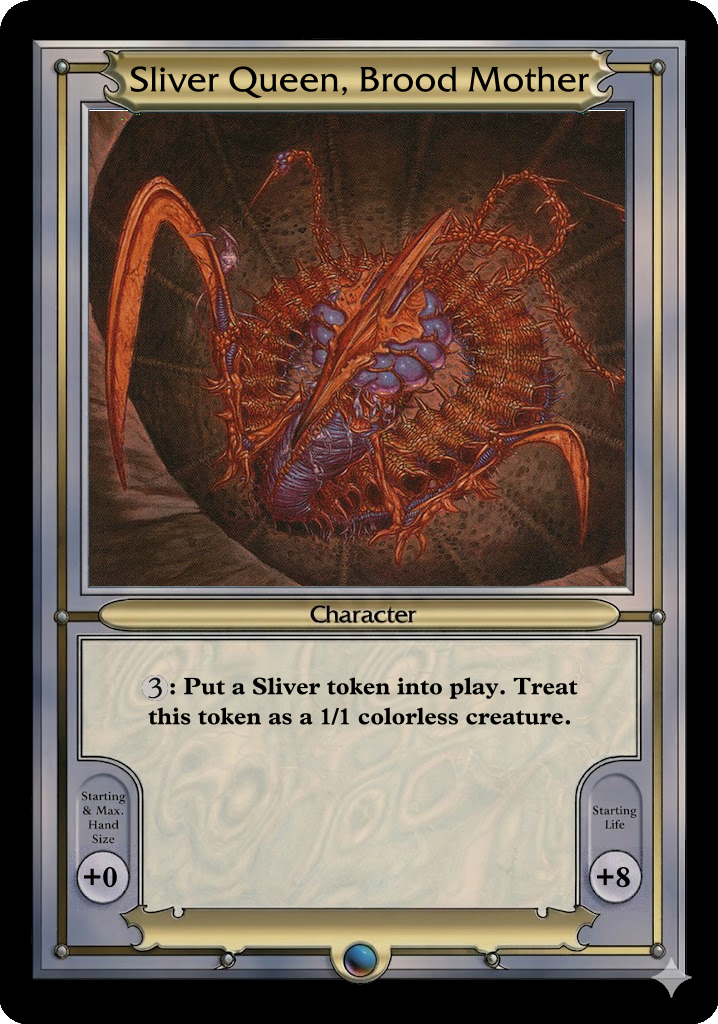
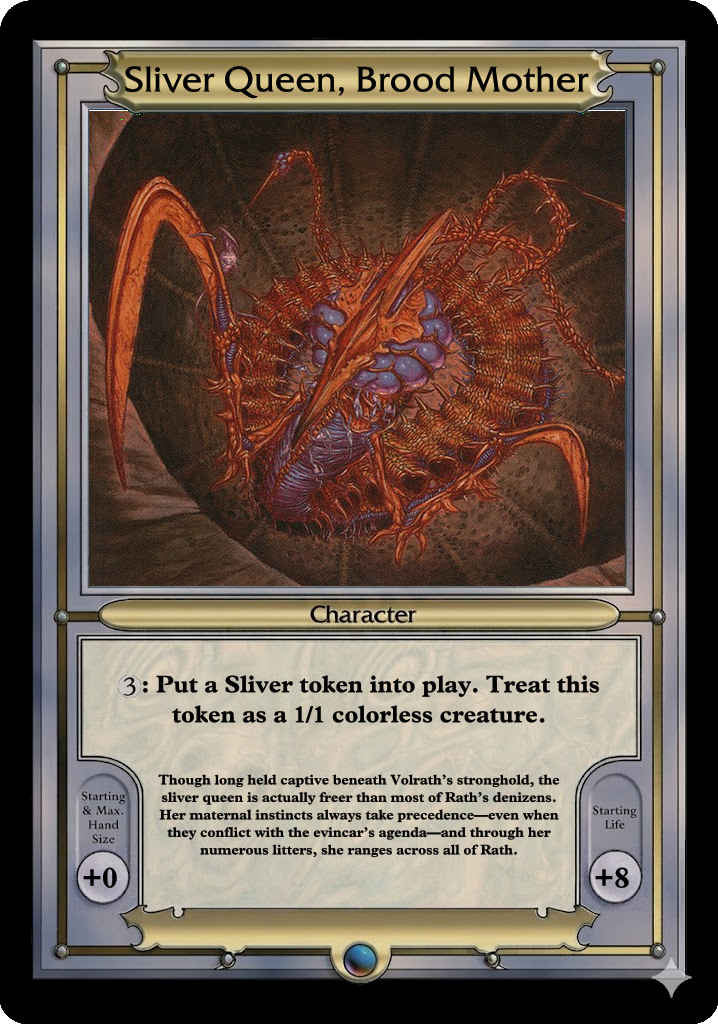
Restore flavor text, keep it clear of the stat bubbles, refresh samples
Three related fixes to things the accuracy suite cannot see, because it
scores ability text alone on a blank canvas.

The card definitions lost their flavor text when they were regenerated
from the scans. Restored for the four cards the README renders, which
are the only ones that show it.

Flavor text wrapped to the full box width, so widening text_padding to
match the original's text box pushed it out over the stat-bubble
housings. It now wraps to the narrow box: the flavor sits at the bottom
of the box where the housings cut into it from both sides, whether or
not the ability above it runs full width. Sliver Queen's flavor now
breaks across exactly the same five lines as the printed card.

The README's four rendered samples were still the output of the old
renderer. Regenerated, and CLAUDE.md now says to regenerate them in the
same commit as any rendering change, with the commands to do it — they
are build output with nothing in CI to catch them going stale.

Still wrong, and not addressed here: flavor text sets in roman rather
than italic, because no italic face is bundled.

diff --git a/src/text.rs b/src/text.rs
@@ -430,13 +430,16 @@ pub fn fit_rules_text(
         let remaining =
             layout.text_box.height() - ability_h - layout.para_gap - SEPARATOR_H - layout.para_gap;
 
+        // Flavor text sits at the bottom of the box, where the stat-bubble
+        // housings cut into it from both sides, so it wraps to the narrow width
+        // even when the ability above it runs the full width of the box.
         let fit_at = |size: u32| {
             let spec = TypeSpec::flavor(size, layout);
             let lines = wrap_text(
                 flav,
                 flavor_font,
                 spec.scale,
-                layout.rules_width(),
+                layout.rules_width_narrow(),
                 spec.symbol_size,
             );
             FlavorFit { spec, lines }

diff --git a/CLAUDE.md b/CLAUDE.md
@@ -58,6 +58,23 @@ The 1997 cards were broken by hand, not by a width rule — Sidar Kondo breaks a
 
 **When a test score seems unusually low (e.g. below 10%), always generate and inspect the diff image before drawing conclusions.** The diff (black = correct, red = missed, green = extra) immediately reveals whether the problem is a positional offset, wrong font, wrong line-breaking, or a bad mask. Do not attempt to diagnose low scores from band statistics alone — look at the diff first.
 
+## README sample images
+
+`README.md` shows four rendered cards beside scans of the originals, from `assets/examples/`. The `*_org.*` files are the originals and never change; the four rendered ones are build output and go stale the moment anything about rendering changes.
+
+**Regenerate them in the same commit as any change to rendering** — `src/text.rs`, `src/render.rs`, `src/layout.rs`, the bundled fonts or symbols, or a card definition the samples use. A reader compares those images against the originals to judge the tool; a stale sample misrepresents it.
+
+```sh
+cargo run --release -- create tests/cards/gerrard.yaml tests/cards/silverqueen.yaml \
+    tests/cards/sidarkondo.yaml tests/cards/volrath.yaml -o assets/examples
+mv -f assets/examples/sliver_queen__brood_mother.png assets/examples/silverqueen.png
+mv -f assets/examples/sidar_kondo.png assets/examples/sidar.png
+```
+
+The renames are needed because output filenames come from the card name, while the README links to the shorter slugs. The samples are rendered from `tests/cards/*.yaml` on purpose, so they always show the same card data the accuracy suite scores — those four carry `flavor` text, which the suite drops but the samples need.
+
+Look at the result before committing. The F1 metric never sees the samples: it scores ability text only, on a blank canvas, so nothing in the suite will catch flavor text colliding with the stat bubbles, artwork cropping wrongly, or a symbol rendering at the wrong tone.
+
 ## Scryfall API
 
 Vanguard card metadata can be looked up via the Scryfall search API:
